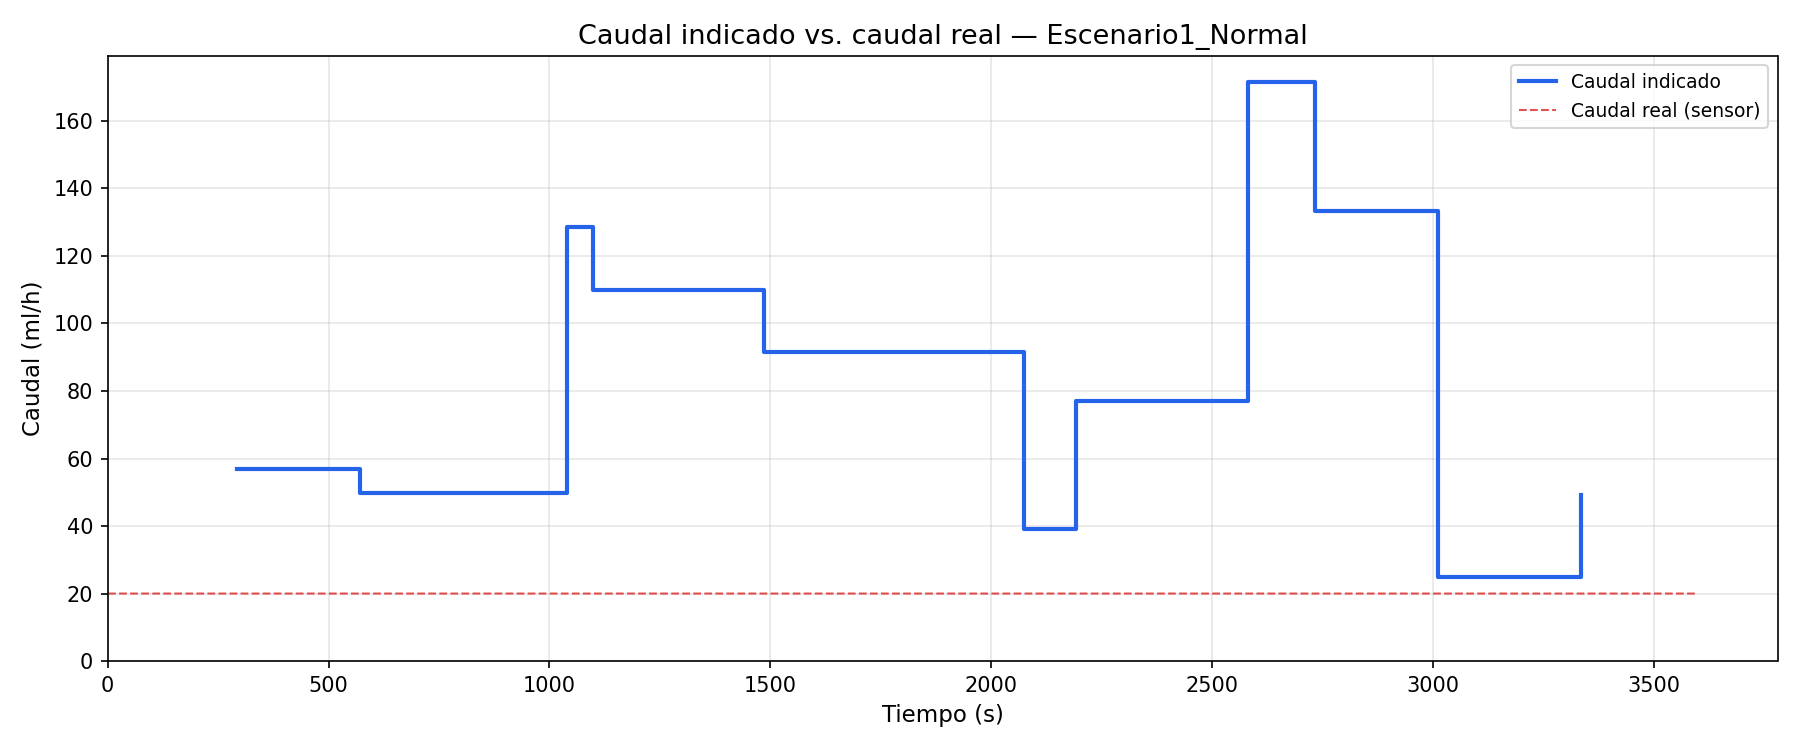
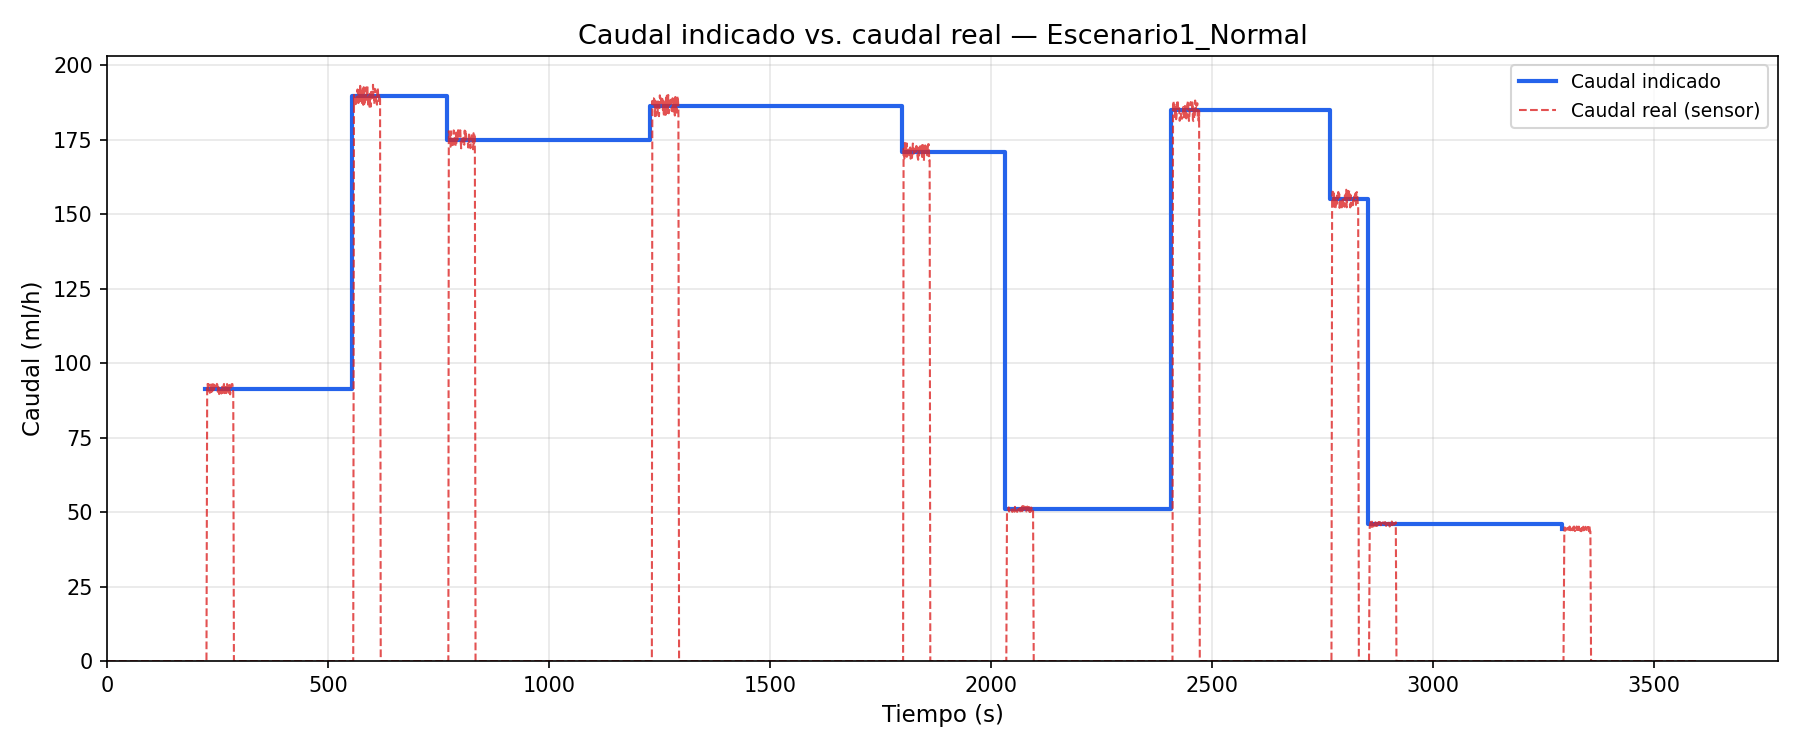
bolsa

diff --git a/modelos/bolsa_infusion.py b/modelos/bolsa_infusion.py
@@ -1,0 +1,69 @@
+from xdevs.models import Atomic, Port, INFINITY
+from lib import CAPACIDAD_BOMBA
+class BolsaDeInfusion(Atomic):
+    def __init__(self, name="bolsa"):
+        super().__init__(name)
+        
+        self.i_caudal = Port(float, "caudal")
+        self.i_confirmacion = Port(bool, "confirmacionEnfermero")
+        
+        # Salida: alerta cuando faltan <= 60 seg
+        self.o_fin_bolsa = Port(bool, "finBolsa")
+        
+        self.add_in_port(self.i_caudal)
+        self.add_in_port(self.i_confirmacion)
+        self.add_out_port(self.o_fin_bolsa)
+
+        
+        self.volumen_actual = CAPACIDAD_BOMBA
+        self.caudal_actual = 0.0
+
+    def initialize(self):
+        self.volumen_actual = CAPACIDAD_BOMBA
+        self.caudal_actual = 0.0
+        self.hold_in("llena", INFINITY)
+
+    def lambdaf(self):
+        self.o_fin_bolsa.add(True)
+
+    def deltint(self):
+        self.hold_in("aviso_enviado", INFINITY)
+
+    def deltext(self, e):
+        # 1. Actualizar volumen consumido
+        # Cuando el caudal llega a 0 o es negativo ya se dio aviso de fin bolsa. 
+        # Detener la bolsa es trabajo del controlador 
+        if self.caudal_actual > 0:
+            # `caudal_actual` está en ml/h y `e` en segundos, convertir a horas
+            consumo = self.caudal_actual * (e / 3600.0)
+            self.volumen_actual = max(0.0, self.volumen_actual - consumo)
+
+        # 2. Procesar nuevo caudal
+        if not self.i_caudal.empty():
+            self.caudal_actual = self.i_caudal.get()
+            
+            if self.caudal_actual > 0:
+                tiempo_para_vaciado = self.volumen_actual / self.caudal_actual
+                # Queremos disparar la alarma cuando falten 60 segundos.
+                # Tiempo de espera = Tiempo total - 60
+                tiempo_para_alarma = tiempo_para_vaciado - 60
+                
+                if tiempo_para_alarma <= 0:
+                    # Ya pasamos el umbral o estamos en él, avisamos de inmediato
+                    self.hold_in("vaciando", 0)
+                else:
+                    # Programamos el aviso para cuando falten exactamente 60s
+                    self.hold_in("vaciando", tiempo_para_alarma)
+            else:
+                self.hold_in("pausada", INFINITY)
+
+        # 3. Reset por confirmación
+        elif not self.i_confirmacion.empty():
+            if self.i_confirmacion.get() and self.volumen_actual <= 0:
+                self.volumen_actual = CAPACIDAD_BOMBA
+                self.caudal_actual = 0.0
+                self.hold_in("llena", INFINITY)
+
+    
+    def exit(self):
+        pass

diff --git a/monitores/monitor_bolsa.py b/monitores/monitor_bolsa.py
@@ -1,0 +1,33 @@
+from lib import AccionBomba
+#Monitores para metricas relacionadas a la bolsa de infusion
+
+#Calcula el tiempo de respuesta desde que se dispara la alerta de fin de bolsa hasta que el controlador actua 
+# (detiene la bomba o activa alarma) 
+class MonitorBolsa:
+    def __init__(self):
+        self.tiempos_respuesta = []
+        self.t_llegada_controlador = None
+
+    def observar_alerta_fin_bolsa(self, t,valor):
+        #T1: El evento de fin de bolsa llega al puerto de entrada del controlador.
+        self.t_llegada_controlador = t
+
+    def observar_accion_controlador(self, t,valor):
+        #T2: El controlador emite el comando de apagado al actuador."""
+        if self.t_llegada_controlador is not None and valor == AccionBomba.DETENER_BOMBA:
+            latencia = t - self.t_llegada_controlador
+            self.tiempos_respuesta.append(latencia)
+            self.t_llegada_controlador = None
+
+    def obtener_metricas(self):
+        return {
+            "tiempos_respuesta": self.tiempos_respuesta
+        }
+    
+    def obtener_tiempo_respuesta_promedio(self):
+        if not self.tiempos_respuesta:
+            return 0
+        return sum(self.tiempos_respuesta) / len(self.tiempos_respuesta)
+
+    def obtener_cantidad_de_datos(self):
+        return len(self.tiempos_respuesta)

diff --git a/main.py b/main.py
@@ -2,7 +2,7 @@ from sistema import SistemaInfusionAcoplado
 from xdevs.sim import Coordinator
 from monitores.monitor_caudal import MonitorCaudal
 from monitores.monitor_alarmas import MonitorAlarmas
-from monitores.monitor_respuesta import MonitorRespuesta
+from monitores.monitor_actualizacion_caudal import MonitorRespuesta
 from monitores.monitor_controlador import MonitorControlador
 from lib import AccionBomba
 from simulacion import Simulacion
@@ -23,16 +23,16 @@ if __name__ == "__main__":
 
     #Escenario 2: Cambia orden medica durante la infusion
     #el generador emite una orden de 50, y a los 2 segundo emite orden de 80... luego no deberia emitir nada por 30000 segundos
-    valores_f = iter([50.0, 80.0])
-    def f():
-        return next(valores_f, 80.0)  # después sigue devolviendo 80
+    # valores_f = iter([50.0, 80.0])
+    # def f():
+    #     return next(valores_f, 80.0)  # después sigue devolviendo 80
 
-    valores_g = iter([1.0, 2.0, 30000.0])
-    def g():
-        return next(valores_g, 3000)
-    simular = Simulacion("SimulacionBombaInfusion")
-    simular.iniciar_simulacion(36000.0,f,g)
-    simular.mostrar_metricas()
+    # valores_g = iter([1.0, 2.0, 30000.0])
+    # def g():
+    #     return next(valores_g, 3000)
+    # simular = Simulacion("SimulacionBombaInfusion")
+    # simular.iniciar_simulacion(36000.0,f,g)
+    # simular.mostrar_metricas()
 
 
     # #Escenario 3 se genera orden 0.0

diff --git a/simulacion.py b/simulacion.py
@@ -2,8 +2,9 @@ from sistema import SistemaInfusionAcoplado
 from xdevs.sim import Coordinator
 from monitores.monitor_caudal import MonitorCaudal
 from monitores.monitor_alarmas import MonitorAlarmas
-from monitores.monitor_respuesta import MonitorRespuesta
+from monitores.monitor_actualizacion_caudal import MonitorRespuesta
 from monitores.monitor_controlador import MonitorControlador
+from monitores.monitor_bolsa import MonitorBolsa
 import matplotlib.pyplot as plt
 import matplotlib.patches as mpatches
 from lib import AccionBomba
@@ -19,6 +20,7 @@ class Simulacion():
         self.monitor_alarmas = MonitorAlarmas()
         self.monitor_respuesta = MonitorRespuesta()
         self.monitor_controlador = MonitorControlador()
+        self.monitor_bolsa = MonitorBolsa()
         self.tiempoSimulacion = 3600.0
         self.simulador = Coordinator(self.sistema)
    
@@ -68,12 +70,19 @@ class Simulacion():
                 v = self.sistema.controlador.o_mensaje_actuador.get()
                 if(v==AccionBomba.DETENER_BOMBA):
                     self.monitor_controlador.observar_orden_apagar(t, 0.0)
+                    self.monitor_bolsa.observar_accion_controlador(t, v)
                 else:
                     self.monitor_controlador.observar_ajustar_caudal(t, v)
             
             if not self.sistema.controlador.o_alarma.empty():    
                 v = self.sistema.controlador.o_alarma.get()
                 self.monitor_controlador.observar_alarma(t, v)
+                
+            # ── Monitor bolsa ───────────────────────────────────
+            if not self.sistema.bolsa.o_fin_bolsa.empty():    
+                v = self.sistema.bolsa.o_fin_bolsa.get()
+                self.monitor_bolsa.observar_alerta_fin_bolsa(t, v)
+            
 
             self.simulador.deltfcn()
             self.simulador.clear()
@@ -136,7 +145,9 @@ class Simulacion():
             for i, (tiempo, caudal) in enumerate(metricas_controlador['ordenApagar']):
                 print(f"    {i+1}. Tiempo: {tiempo:.2f}s - Caudal ajustado: {caudal}")
 
-
+        print("\n[ Monitor de la bolsa ]")
+        print (f"  Total de alertas de fin de bolsa: {self.monitor_bolsa.obtener_cantidad_de_datos()}")
+        print(f"  Tiempo de respuesta promedio desde alerta de fin de bolsa hasta acción del controlador: {self.monitor_bolsa.obtener_tiempo_respuesta_promedio():.4f}s")
         print("-----------------------------\n")
 
     def graficar_caudal(self, titulo="Simulación"):

diff --git a/modelos/sensor_flujo.py b/modelos/sensor_flujo.py
@@ -1,3 +1,4 @@
+import random 
 from xdevs.models import Atomic, Port
 
 # Sensor de flujo de la bomba de infusión
@@ -24,7 +25,15 @@ class SensorFlujo(Atomic):
         pass
 
     def lambdaf(self):
-        self.o_sensor_flujo.add(self.caudal)
+        
+        if self.caudal <= 0:
+            self.o_sensor_flujo.add(0.0)
+        else:
+            # Generar una variación aleatoria del caudal real para simular el ruido del sensor
+            # Variación de ±2% del valor real, en caso estandar no ocurren variaciones grandes
+            factor_variacion = 1 + random.uniform(-0.02, 0.02)  
+            caudal_con_ruido = self.caudal * factor_variacion
+            self.o_sensor_flujo.add(caudal_con_ruido)
 
     def deltint(self):
         self.hold_in("muestreo", self.PERIODO)

diff --git a/sistema.py b/sistema.py
@@ -3,6 +3,7 @@ from modelos.sensor_flujo import SensorFlujo
 from modelos.controlador import Controlador
 from modelos.actuador import Actuador
 from modelos.modulo_alarmas import ModuloAlarmas
+from modelos.bolsa_infusion import BolsaDeInfusion
 from xdevs.models import Coupled
 
 class SistemaInfusionAcoplado(Coupled):
@@ -19,6 +20,7 @@ class SistemaInfusionAcoplado(Coupled):
         self.controlador = Controlador(name="controlador")
         self.actuador = Actuador(name="actuador")
         self.alarma = ModuloAlarmas(name="alarma")
+        self.bolsa = BolsaDeInfusion(name="bolsa")
 
         # 2. AÑADIR COMPONENTES AL SISTEMA ACOPLADO
         self.add_component(self.generador)
@@ -26,6 +28,7 @@ class SistemaInfusionAcoplado(Coupled):
         self.add_component(self.controlador)
         self.add_component(self.actuador)
         self.add_component(self.alarma)
+        self.add_component(self.bolsa)
         
         # 3. DEFINIR LAS CONEXIONES (COUPLINGS)
         # La orden del generador va al controlador
@@ -38,10 +41,16 @@ class SistemaInfusionAcoplado(Coupled):
         # En la simulación, el sensor recibe directamente la medición del actuador para simplificar el modelo
         self.add_coupling(self.actuador.o_caudal_real, self.sensor.i_caudal_actual)
         
+        #PARA LA SIMULACION El actuador tambien le informa a la bolsa el caudal que esta pasando
+        self.add_coupling(self.actuador.o_caudal_real, self.bolsa.i_caudal)
+
+        # La bolsa le avisa al controlador que se esta por quedar sin liquido
+        self.add_coupling(self.bolsa.o_fin_bolsa, self.controlador.i_fin_bolsa)
+
         # El sensor envía su medición de vuelta al controlador, cerrando el ciclo
         self.add_coupling(self.sensor.o_sensor_flujo, self.controlador.i_caudal_real)
         
         # El controlador puede enviar alarmas al módulo de alarmas
         self.add_coupling(self.controlador.o_alarma, self.alarma.i_alarma)
         
-        # FALTAN Conexiones externas (irian las de la bolsa y confirmacion del enfermero)
+        # FALTAN Conexiones  confirmacion del enfermero con bolsa y con controlador y alarmas

diff --git a/lib.py b/lib.py
@@ -7,6 +7,7 @@ from typing import NewType
 CAUDAL_MAX = 200.0  # ml/h
 CAUDAL_MIN = 0.0    # ml/h
 DELAY_ACTUADOR = 0.5  # segundos
+CAPACIDAD_BOMBA = 1000.0  # ml
 
 
 # ─────────────────────────────────────────────────────────────